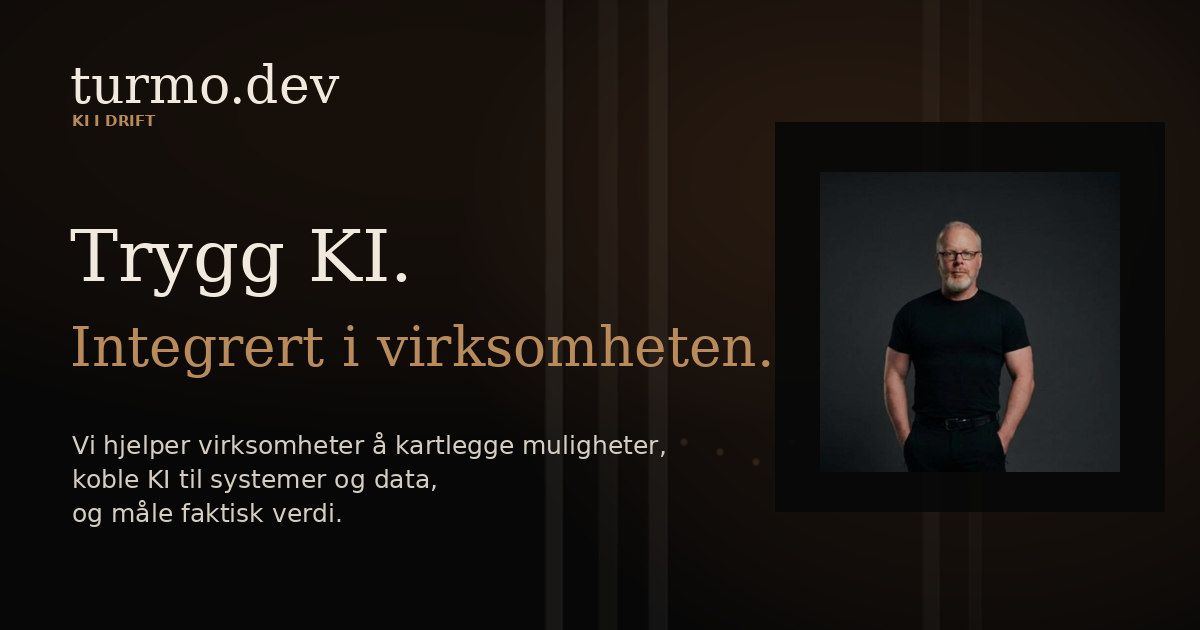
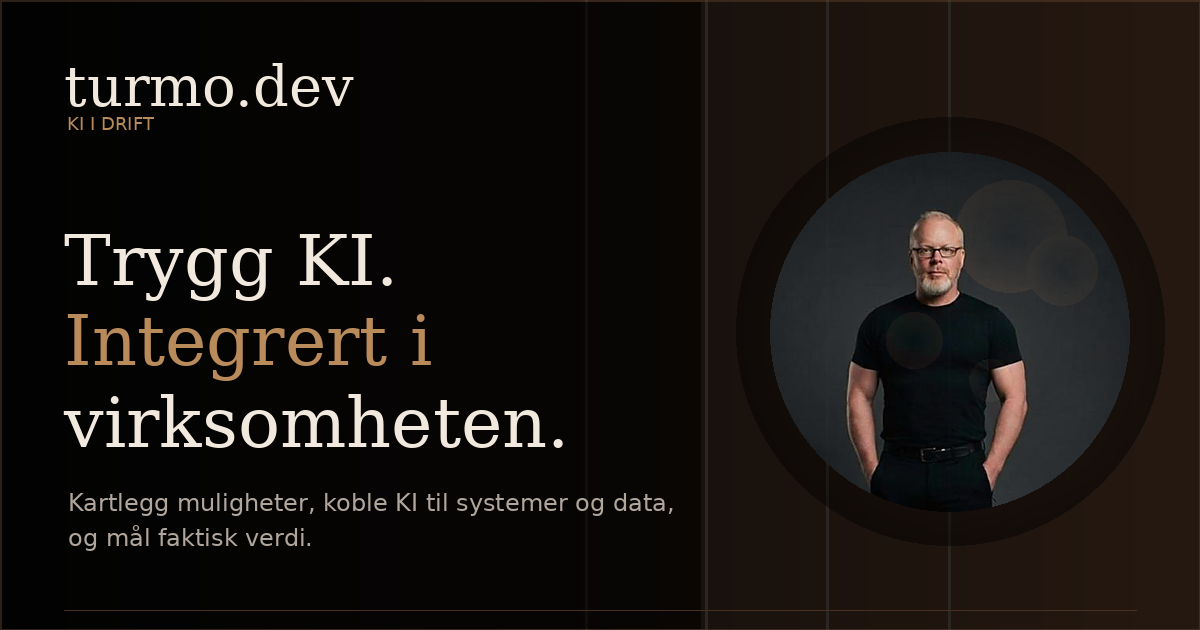
Align hero with executive design

diff --git a/styles.css b/styles.css
@@ -29,7 +29,7 @@ html {
 body {
   margin: 0;
   background:
-    radial-gradient(circle at 75% 0%, rgba(185, 138, 90, 0.12), transparent 34rem),
+    radial-gradient(circle at 78% 0%, rgba(185, 138, 90, 0.1), transparent 34rem),
     linear-gradient(180deg, #080706 0%, var(--color-background) 42rem);
   color: var(--color-ivory);
   font-family: var(--font-body);
@@ -128,6 +128,7 @@ button:focus-visible {
   min-height: 760px;
   overflow: clip;
   border-bottom: 1px solid rgba(185, 138, 90, 0.22);
+  background: #070707;
 }
 
 .hero::before {
@@ -136,8 +137,8 @@ button:focus-visible {
   inset: 0;
   z-index: 2;
   background:
-    linear-gradient(90deg, rgba(7, 7, 7, 0.98) 0%, rgba(7, 7, 7, 0.84) 38%, rgba(7, 7, 7, 0.1) 74%, rgba(7, 7, 7, 0.52) 100%),
-    linear-gradient(180deg, rgba(7, 7, 7, 0.18) 0%, rgba(7, 7, 7, 0.18) 55%, rgba(7, 7, 7, 0.92) 100%);
+    linear-gradient(90deg, rgba(7, 7, 7, 0.99) 0%, rgba(7, 7, 7, 0.9) 38%, rgba(7, 7, 7, 0.18) 68%, rgba(7, 7, 7, 0.68) 100%),
+    linear-gradient(180deg, rgba(7, 7, 7, 0.1) 0%, rgba(7, 7, 7, 0.08) 55%, rgba(7, 7, 7, 0.96) 100%);
   pointer-events: none;
 }
 
@@ -145,48 +146,66 @@ button:focus-visible {
   position: absolute;
   inset: 0;
   z-index: 1;
-  display: grid;
-  place-items: stretch end;
   background:
-    linear-gradient(135deg, rgba(185, 138, 90, 0.08), transparent 45%),
+    radial-gradient(circle at 79% 29%, rgba(185, 138, 90, 0.22), transparent 17rem),
+    linear-gradient(90deg, #070707 0%, #0a0908 44%, #18120e 100%),
     #070707;
 }
 
-.hero__visual > img:not(.hero__portrait) {
-  width: min(54vw, 760px);
-  height: 100%;
-  object-fit: cover;
-  object-position: center top;
-  opacity: 0.56;
-  filter: saturate(0.78) contrast(1.08);
+.hero__scene {
+  position: absolute;
+  inset: 0 0 0 42%;
+  background:
+    linear-gradient(90deg, #070707 0%, rgba(7, 7, 7, 0.62) 24%, rgba(7, 7, 7, 0.04) 58%, rgba(7, 7, 7, 0.28) 100%),
+    radial-gradient(circle at 82% 46%, rgba(219, 151, 82, 0.34) 0 0.32rem, transparent 0.36rem),
+    radial-gradient(circle at 88% 51%, rgba(219, 151, 82, 0.28) 0 0.24rem, transparent 0.28rem),
+    radial-gradient(circle at 72% 58%, rgba(219, 151, 82, 0.26) 0 0.2rem, transparent 0.24rem),
+    linear-gradient(90deg, rgba(242, 233, 222, 0.09) 0 1px, transparent 1px 132px),
+    linear-gradient(180deg, transparent 0 58%, rgba(185, 138, 90, 0.1) 58.2%, transparent 58.7%),
+    linear-gradient(135deg, rgba(242, 233, 222, 0.04), transparent 36%),
+    linear-gradient(90deg, #0a0b0a, #17110d 52%, #2a160c);
+  opacity: 0.86;
+  filter: saturate(0.82) contrast(1.08);
+}
+
+.hero__scene::before {
+  content: "";
+  position: absolute;
+  inset: 0;
+  background:
+    linear-gradient(90deg, rgba(242, 233, 222, 0.08) 0 1px, transparent 1px 100%) 8% 0 / 14% 100%,
+    linear-gradient(180deg, transparent 0 66%, rgba(185, 138, 90, 0.1) 66.2%, transparent 66.7%),
+    radial-gradient(ellipse at 62% 73%, rgba(185, 138, 90, 0.16), transparent 19rem);
+  opacity: 0.64;
 }
 
 .hero__portrait {
   position: absolute;
-  right: min(8vw, 120px);
-  bottom: 76px;
-  width: min(34vw, 470px);
-  aspect-ratio: 1;
-  border: 1px solid rgba(185, 138, 90, 0.2);
-  border-radius: 2px;
+  right: min(11vw, 150px);
+  bottom: 0;
+  width: min(34vw, 500px);
+  max-height: 86%;
+  border: 0;
+  border-radius: 0;
   object-fit: cover;
-  object-position: center;
+  object-position: center bottom;
   opacity: 1;
-  filter: grayscale(0.08) saturate(0.78) contrast(1.08) brightness(0.98);
-  box-shadow: 0 34px 120px rgba(0, 0, 0, 0.72);
+  filter: grayscale(0.08) saturate(0.72) contrast(1.14) brightness(0.88);
+  box-shadow: none;
+  mix-blend-mode: luminosity;
 }
 
 .hero__visual::after {
   content: "";
   position: absolute;
-  right: min(7vw, 98px);
-  bottom: 42px;
-  width: min(38vw, 520px);
-  height: min(56vh, 560px);
+  right: min(3vw, 44px);
+  bottom: 0;
+  width: min(44vw, 620px);
+  height: min(70vh, 660px);
   background:
-    linear-gradient(90deg, transparent, rgba(7, 7, 7, 0.72) 74%),
-    radial-gradient(circle at 45% 18%, transparent 0 20%, rgba(7, 7, 7, 0.36) 44%, rgba(7, 7, 7, 0.88) 76%);
-  opacity: 0.34;
+    radial-gradient(ellipse at 50% 38%, transparent 0 21%, rgba(7, 7, 7, 0.2) 45%, rgba(7, 7, 7, 0.88) 78%),
+    linear-gradient(90deg, transparent, rgba(7, 7, 7, 0.78) 86%);
+  opacity: 0.5;
   pointer-events: none;
 }
 
@@ -731,16 +750,16 @@ p {
     min-height: 660px;
   }
 
-  .hero__visual img {
-    width: 100%;
-    opacity: 0.34;
+  .hero__scene {
+    inset: 0;
+    opacity: 0.54;
   }
 
   .hero__portrait {
     right: 4vw;
     bottom: 44px;
-    width: min(58vw, 360px);
-    opacity: 0.42;
+    width: min(54vw, 330px);
+    opacity: 0.24;
   }
 
   .hero__visual::after {

diff --git a/index.html b/index.html
@@ -52,8 +52,8 @@
   <main>
     <section class="hero" id="top">
       <div class="hero__visual" aria-hidden="true">
-        <img src="assets/executive-visual.webp" alt="" fetchpriority="high">
-        <img class="hero__portrait" src="assets/ola-avatar.png" alt="">
+        <div class="hero__scene"></div>
+        <img class="hero__portrait" src="assets/ola-portrait-cutout.png" alt="">
       </div>
       <div class="container hero__inner">
         <div class="hero__copy">
